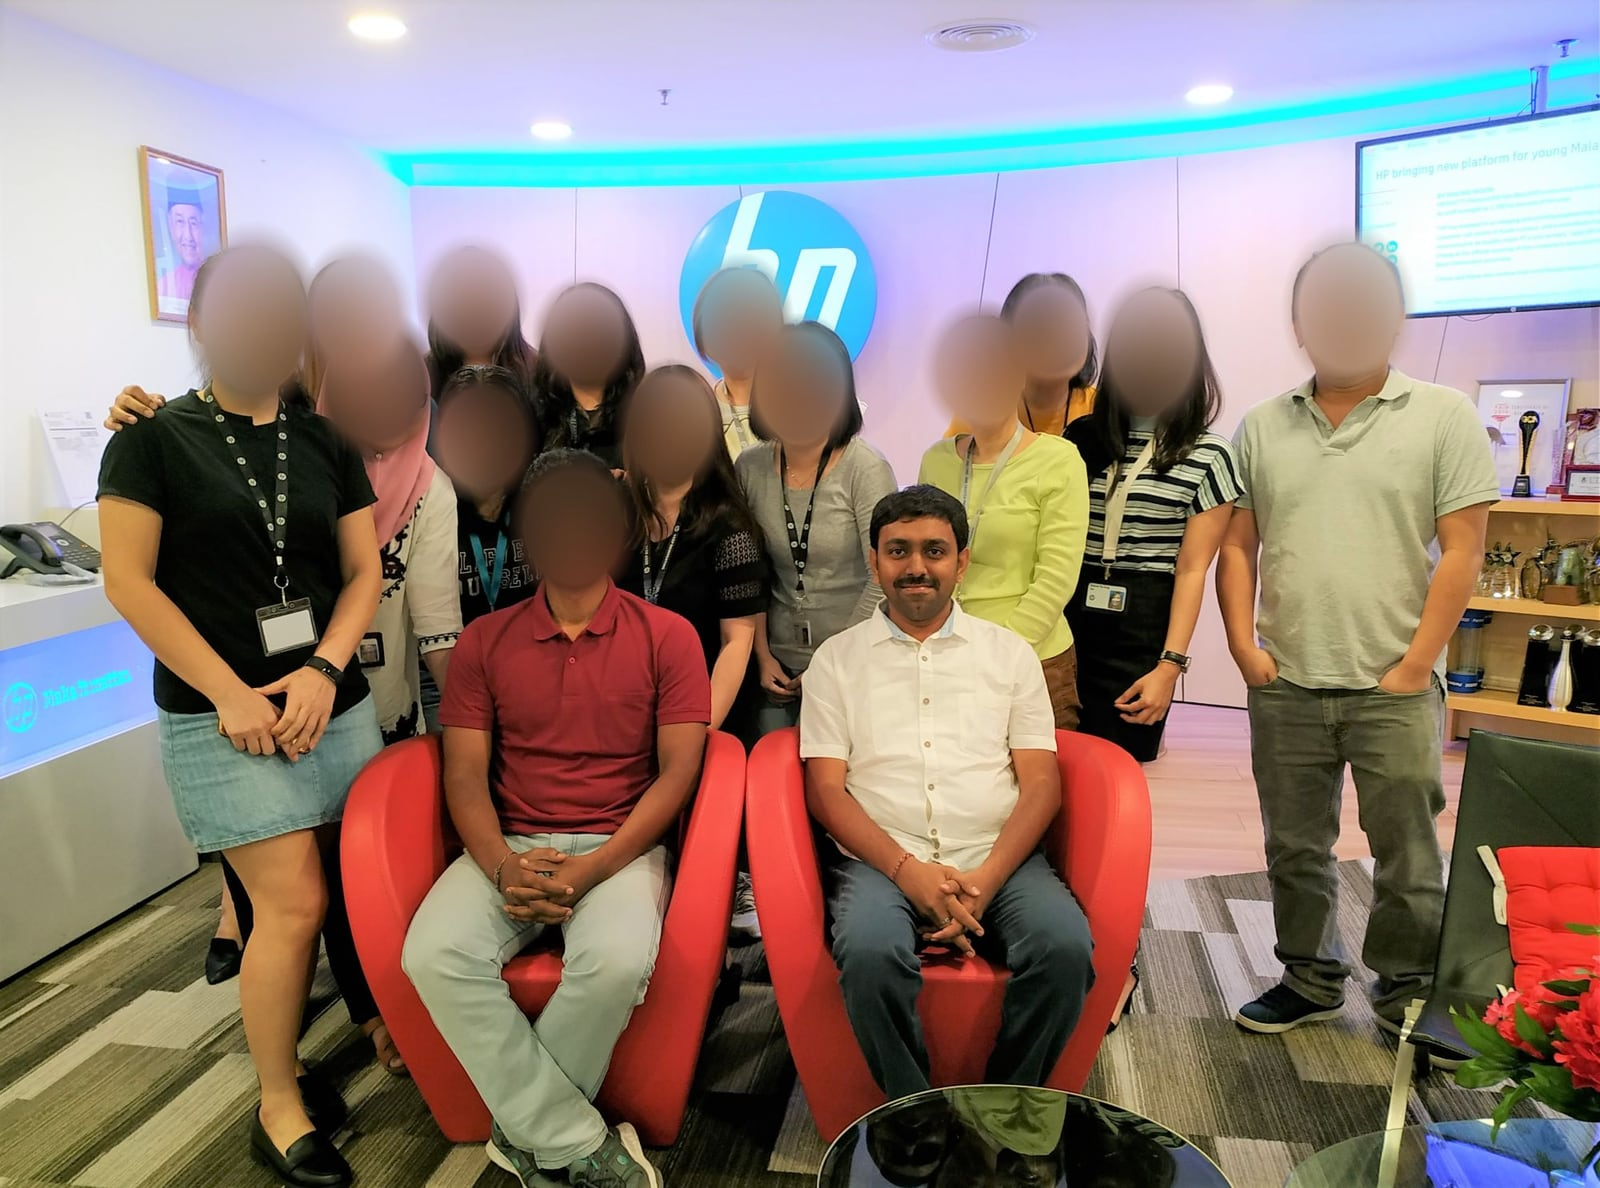
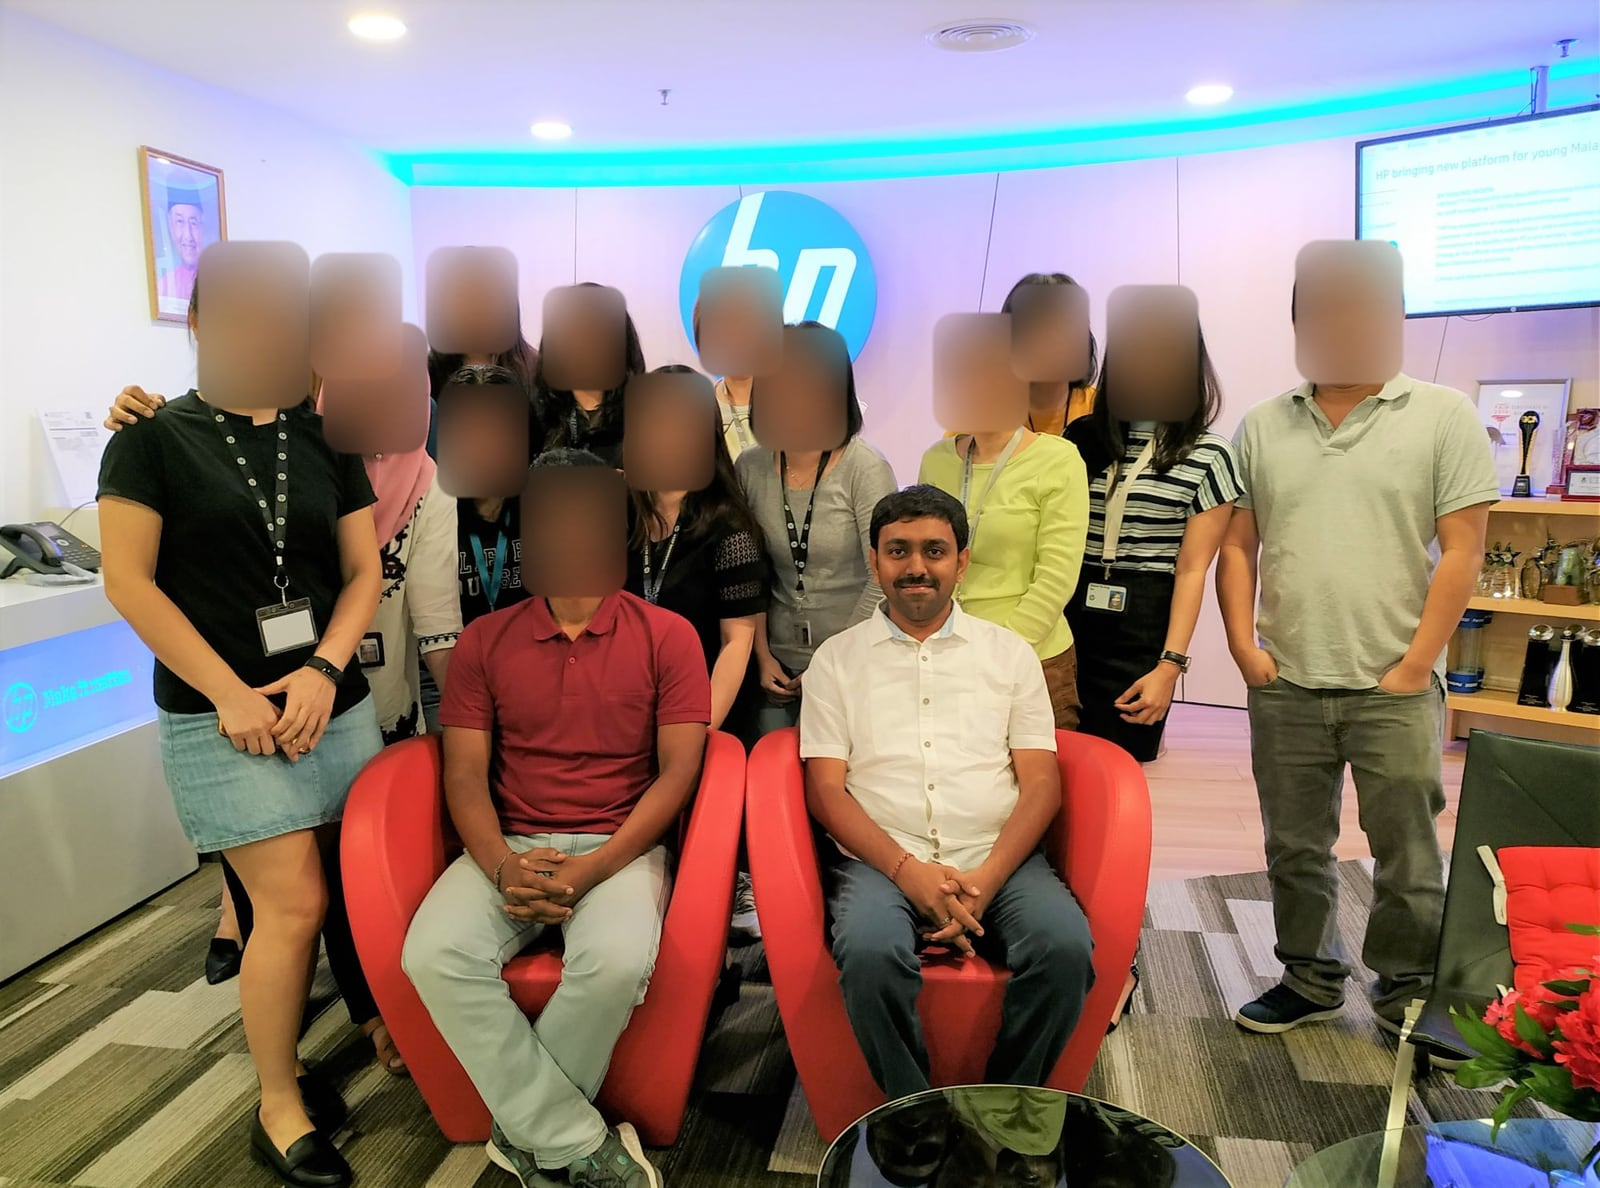
Tighter face-only blur on Singapore and Malaysia workshop photos

diff --git a/index.html b/index.html
@@ -28,13 +28,13 @@
 <link rel="preconnect" href="https://fonts.gstatic.com" crossorigin>
 <link href="https://fonts.googleapis.com/css2?family=Hanken+Grotesk:wght@400;500;600;700;800&display=swap" rel="stylesheet">
 
-<link rel="stylesheet" href="assets/css/variables.css?v=20261105c">
-<link rel="stylesheet" href="assets/css/base.css?v=20261105c">
-<link rel="stylesheet" href="assets/css/components.css?v=20261105c">
-<link rel="stylesheet" href="assets/css/sections.css?v=20261105c">
-<link rel="stylesheet" href="assets/css/animations.css?v=20261105c">
-<link rel="stylesheet" href="assets/css/responsive.css?v=20261105c">
-<link rel="stylesheet" href="assets/css/brand.css?v=20261105c">
+<link rel="stylesheet" href="assets/css/variables.css?v=20261107a">
+<link rel="stylesheet" href="assets/css/base.css?v=20261107a">
+<link rel="stylesheet" href="assets/css/components.css?v=20261107a">
+<link rel="stylesheet" href="assets/css/sections.css?v=20261107a">
+<link rel="stylesheet" href="assets/css/animations.css?v=20261107a">
+<link rel="stylesheet" href="assets/css/responsive.css?v=20261107a">
+<link rel="stylesheet" href="assets/css/brand.css?v=20261107a">
 <script type="application/ld+json">
 {
   "@context": "https://schema.org",
@@ -448,6 +448,6 @@
 
 <noscript><p style="text-align:center;padding:16px">This site needs JavaScript to show my profile.</p></noscript>
 <script src="https://cdn.jsdelivr.net/npm/chart.js@4.4.4/dist/chart.umd.min.js" defer></script>
-<script type="module" src="assets/js/main.js?v=20261105c"></script>
+<script type="module" src="assets/js/main.js?v=20261107a"></script>
 </body>
 </html>

diff --git a/assets/js/main.js b/assets/js/main.js
@@ -1,11 +1,11 @@
-import { initTheme } from "./theme.js?v=20261105c";
-import { initNav } from "./nav.js?v=20261105c";
-import { initTabs } from "./tabs.js?v=20261105c";
-import { renderAll } from "./render.js?v=20261105c";
-import { initReveal } from "./reveal.js?v=20261105c";
-import { initCounters } from "./counters.js?v=20261105c";
-import { initCharts } from "./charts.js?v=20261105c";
-import { initLens } from "./lens.js?v=20261105c";
+import { initTheme } from "./theme.js?v=20261107a";
+import { initNav } from "./nav.js?v=20261107a";
+import { initTabs } from "./tabs.js?v=20261107a";
+import { renderAll } from "./render.js?v=20261107a";
+import { initReveal } from "./reveal.js?v=20261107a";
+import { initCounters } from "./counters.js?v=20261107a";
+import { initCharts } from "./charts.js?v=20261107a";
+import { initLens } from "./lens.js?v=20261107a";
 
 function hideLoadingVeil() {
   const veil = document.getElementById("loadingVeil");

diff --git a/assets/js/render.js b/assets/js/render.js
@@ -2,8 +2,8 @@ import {
   heroStats, philosophy, journey, education, strategyPhases, competencies,
   aiGenai, governance, cloudPlatforms, outcomes, programs, speaking, speakingAvailability,
   certifications, insights, awards, dashboardKpis,
-} from "./data.js?v=20261105c";
-import { openLightbox } from "./lightbox.js?v=20261105c";
+} from "./data.js?v=20261107a";
+import { openLightbox } from "./lightbox.js?v=20261107a";
 
 const $ = (id) => document.getElementById(id);
 

diff --git a/assets/js/lens.js b/assets/js/lens.js
@@ -1,5 +1,5 @@
-import { lenses } from "./data.js?v=20261105c";
-import { animateCounter } from "./counters.js?v=20261105c";
+import { lenses } from "./data.js?v=20261107a";
+import { animateCounter } from "./counters.js?v=20261107a";
 
 const KEY = "profile-lens";
 const esc = (s) => String(s).replace(/[&<>"']/g, (c) => ({ "&": "&amp;", "<": "&lt;", ">": "&gt;", '"': "&quot;", "'": "&#39;" }[c]));

diff --git a/assets/js/charts.js b/assets/js/charts.js
@@ -1,4 +1,4 @@
-import { dashboardCharts } from "./data.js?v=20261105c";
+import { dashboardCharts } from "./data.js?v=20261107a";
 
 function waitForChart(retries = 20) {
   return new Promise((resolve, reject) => {
